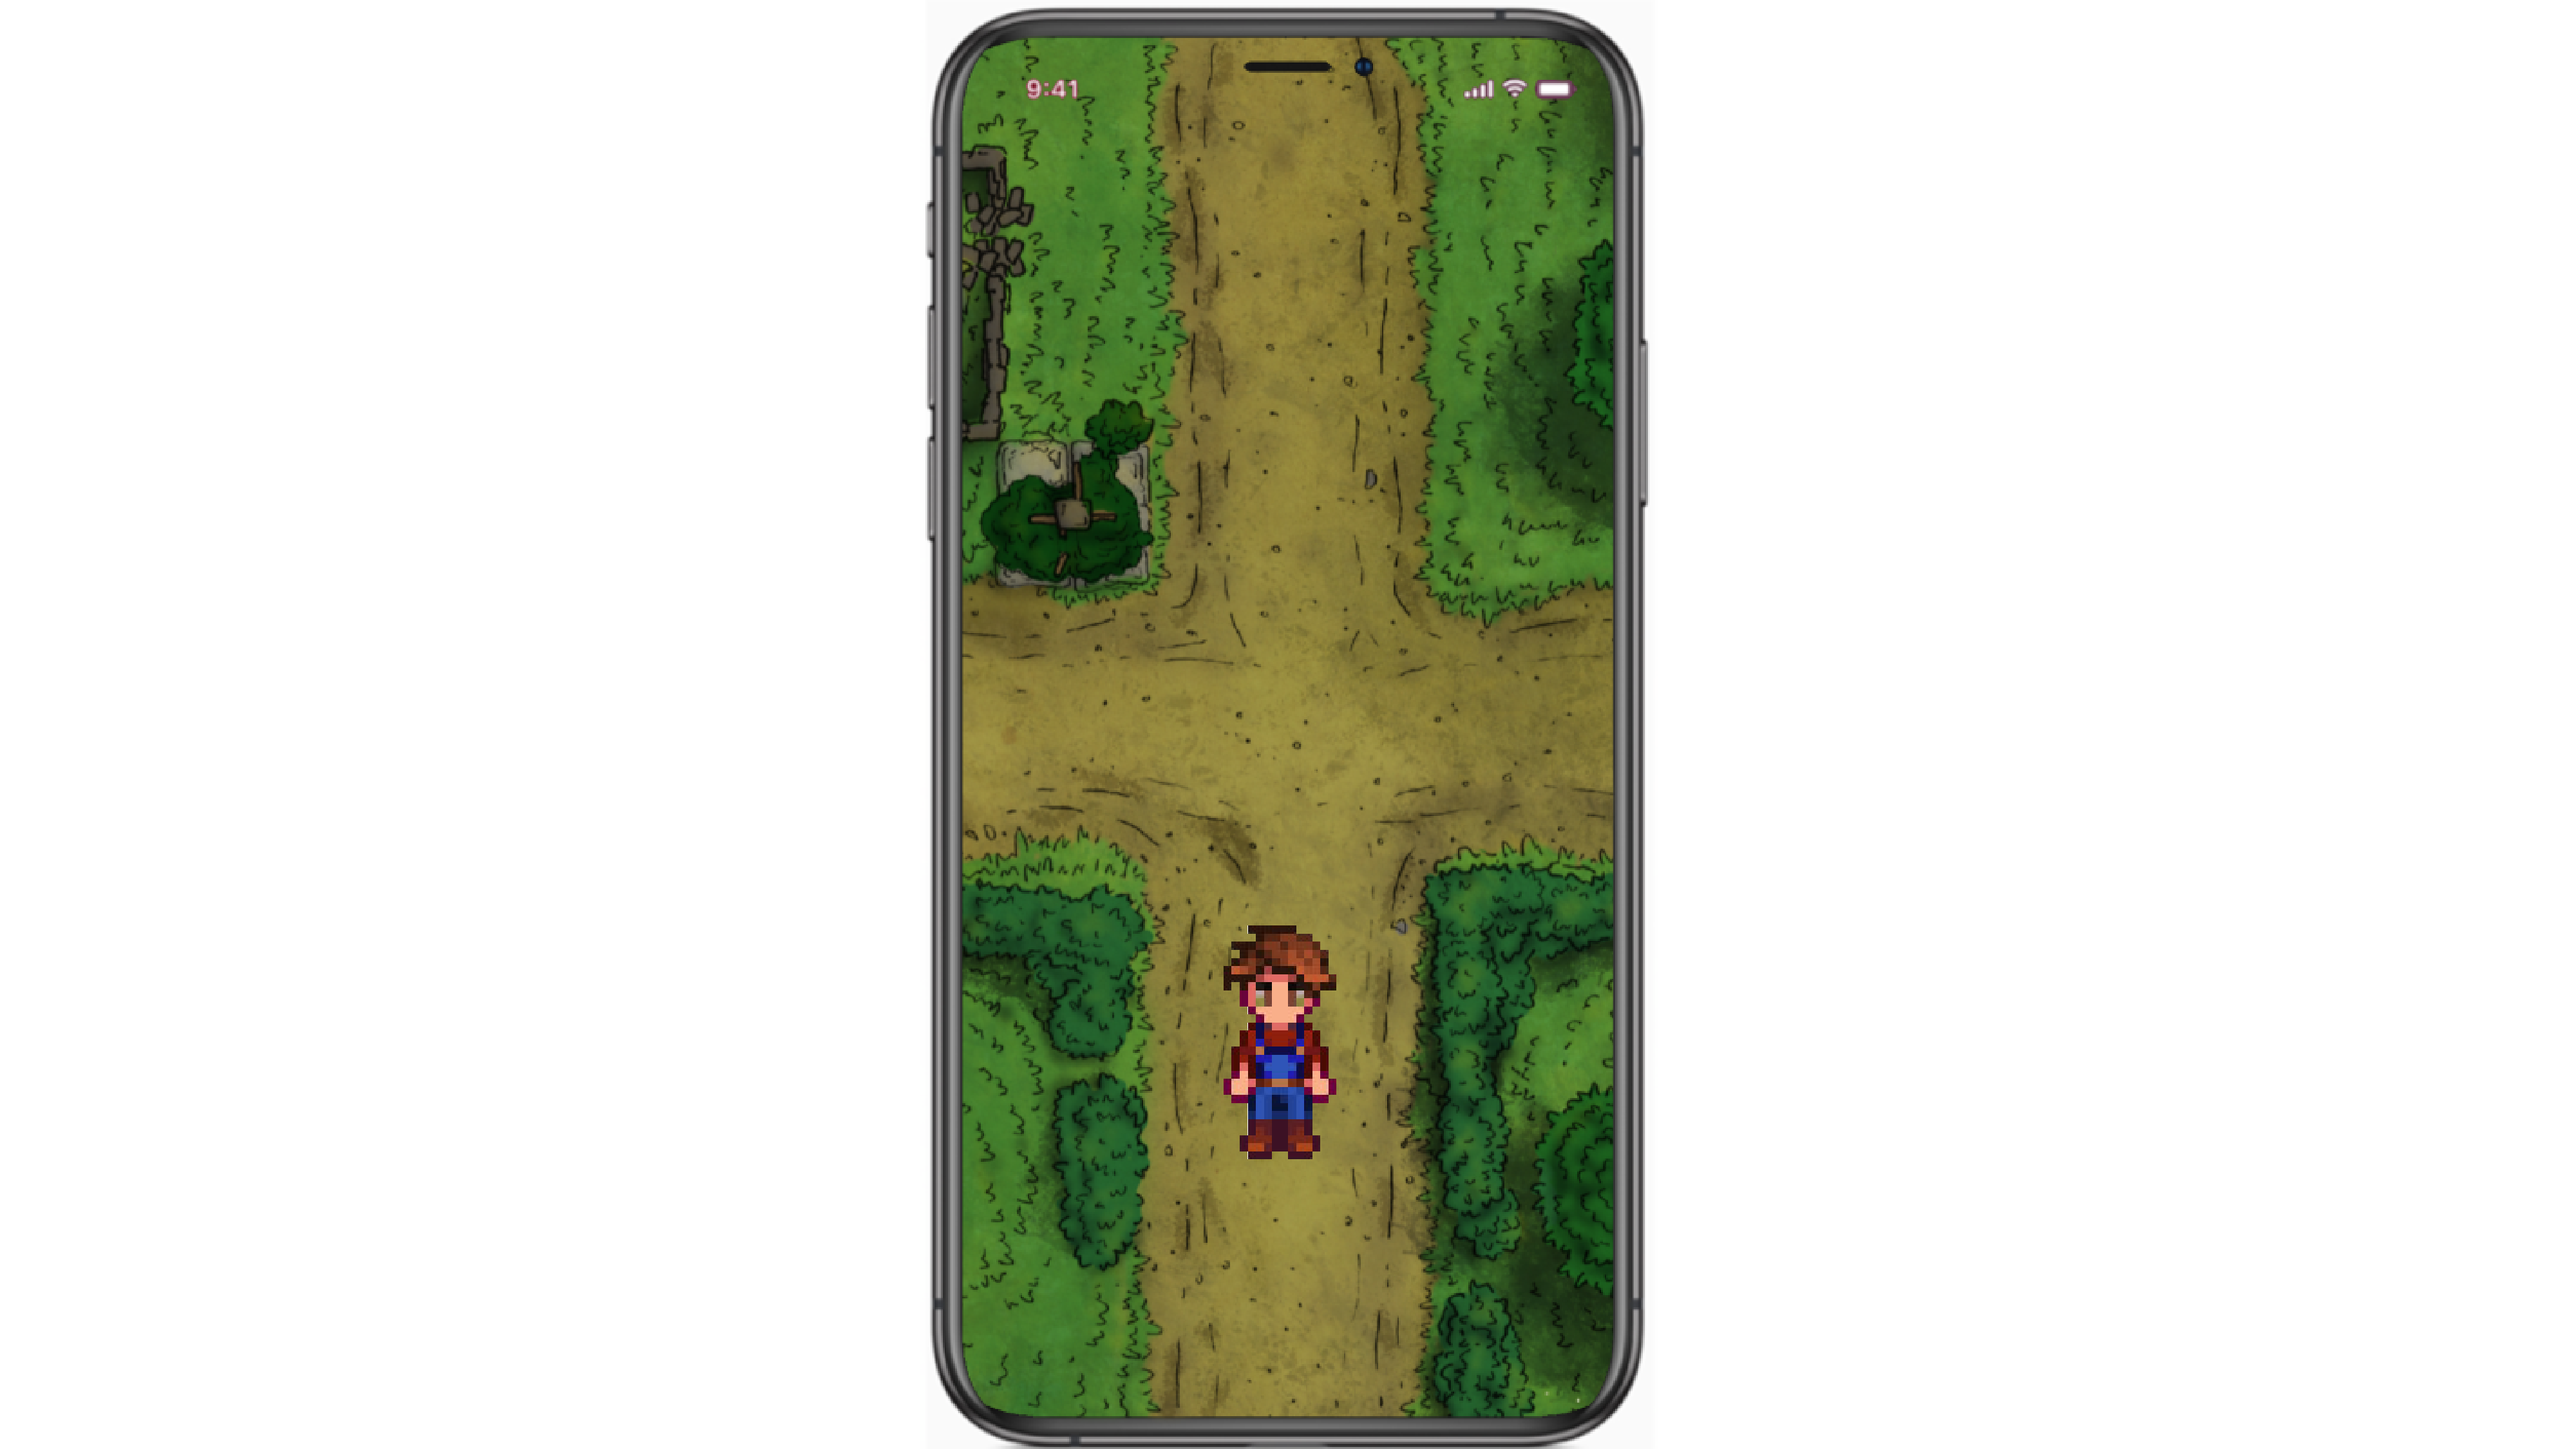
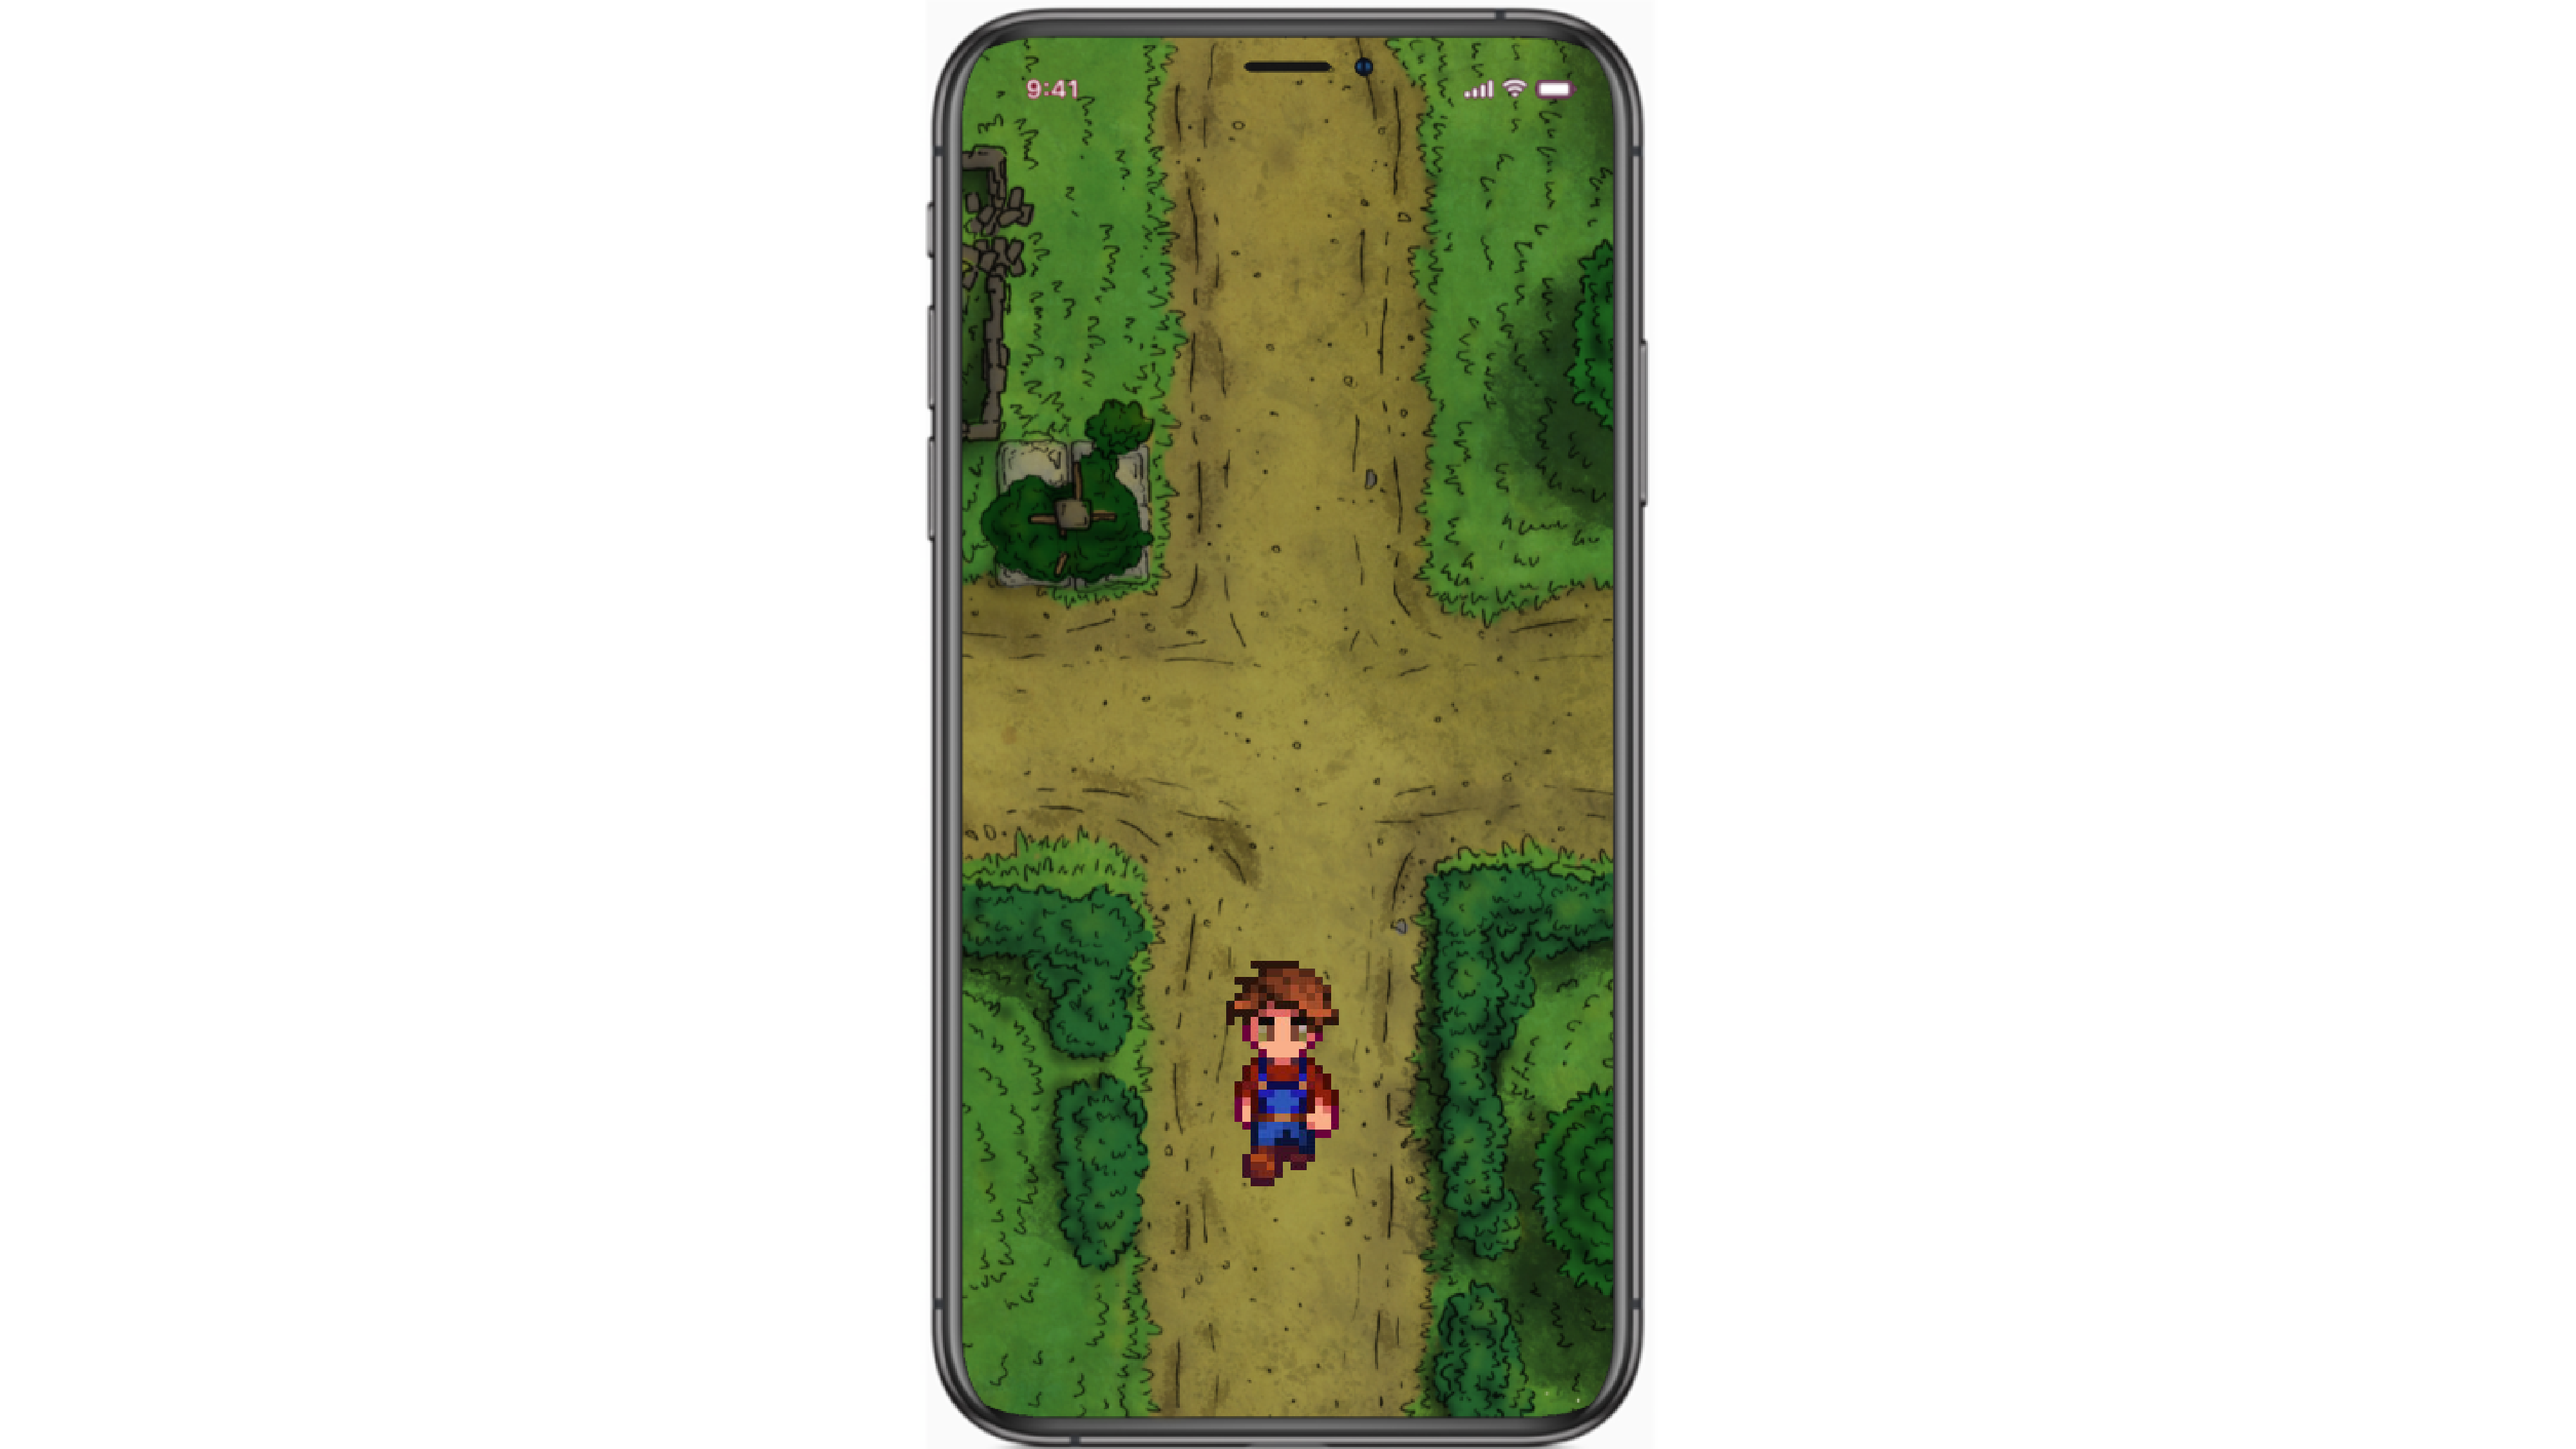
Got the move and combination done

Changed region(s): [[0.4688, 0.6222, 0.5312, 0.84]]

diff --git a/script.js b/script.js
@@ -1,30 +1,69 @@
+const answer = ["Up","Up","Up","Up"]
+let seq = []
+let i = 0;
+
 document.onkeydown = function (event) {
     switch (event.keyCode) {
        case 37:
           console.log("Left key is pressed.");
           
-          let i = 0;
-          picArray = ["https://hips.hearstapps.com/hmg-prod.s3.amazonaws.com/images/dog-puppy-on-garden-royalty-free-image-1586966191.jpg?crop=1.00xw:0.669xh;0,0.190xh&resize=1200:*", 
-                      "https://i.guim.co.uk/img/media/fe1e34da640c5c56ed16f76ce6f994fa9343d09d/0_174_3408_2046/master/3408.jpg?width=1200&height=900&quality=85&auto=format&fit=crop&s=0d3f33fb6aa6e0154b7713a00454c83d",
-                      "https://post.medicalnewstoday.com/wp-content/uploads/sites/3/2020/02/322868_1100-800x825.jpg"];
-          setInterval(() => {
-              
-              document.getElementById("picture").src=picArray[i];
-              if(i > 1){
-                  i = 0;
-              }else{
-                  i++;
-              }
-          }, 1000);
+          
+          var myTimer = setInterval(() => Move("Left", 8 , myTimer), 100);
+          
+          console.log("Done walking")
           break;
        case 38:
           console.log("Up key is pressed.");
+
+        var myTimer = setInterval(() => Move("Up", 16, myTimer), 100);
+        
+
           break;
        case 39:
           console.log("Right key is pressed.");
+
+          var myTimer = setInterval(() => Move("Right",5,myTimer), 100);
+        console.log("Done walking")
+
           break;
        case 40:
           console.log("Down key is pressed.");
+
+          var myTimer = setInterval(() => Move("Down",18,myTimer), 100);
+        console.log("Done walking")
+
           break;
     }
  };
+
+function combination (input){
+    
+    if(answer[seq.length] == input){
+        seq.push(input);
+    }else{
+        seq= [];
+    }
+
+    if(arrayEquals(answer, seq)){
+        // console.log("unlock")
+        document.getElementById("iphone").src ="./Assets/Unlock.png";
+    }
+    console.log(seq)
+}   
+
+function arrayEquals(array1, array2){
+    return JSON.stringify(array1) ==JSON.stringify(array2)
+}
+
+function Move(direction, max, myTimer){
+    document.getElementById("iphone").src ="./Assets/"+direction+"/"+i +".png";
+            
+            if(i >= max){
+                document.getElementById("iphone").src ="./Assets/Start.png";
+                i = 0;
+                combination(direction) //TODO
+                console.log("Done walking")
+                clearInterval(myTimer);
+              }
+             i++
+}

diff --git a/index.html b/index.html
@@ -13,7 +13,7 @@
 <body>
     <div>
         <div>
-            <img id="picture" src="https://hips.hearstapps.com/hmg-prod.s3.amazonaws.com/images/dog-puppy-on-garden-royalty-free-image-1586966191.jpg?crop=1.00xw:0.669xh;0,0.190xh&resize=1200:*"></img>
+            <img id="iphone" src="./Assets/Start.png"></img>
 
         </div>
     </div>

diff --git a/style.css b/style.css
@@ -1,0 +1,4 @@
+#iphone{
+    width: 95vw;
+    height: 95vh;
+}
